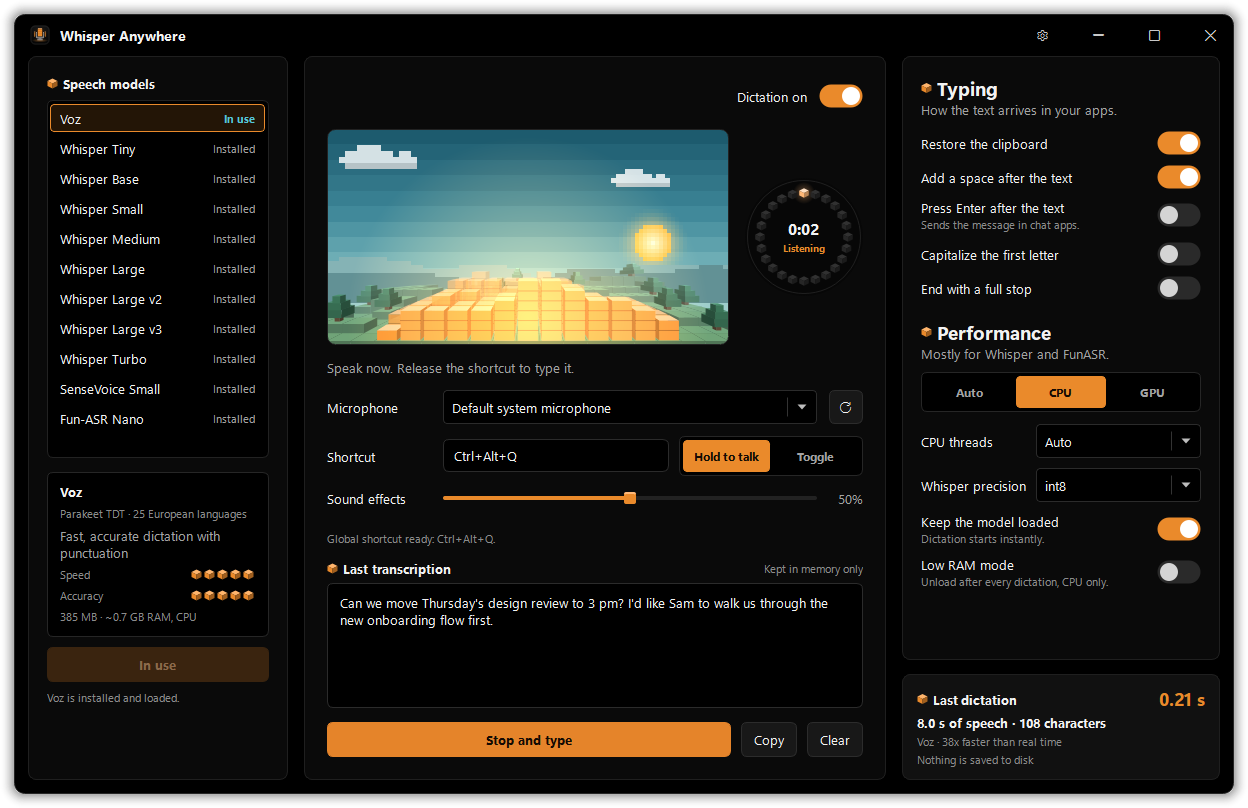
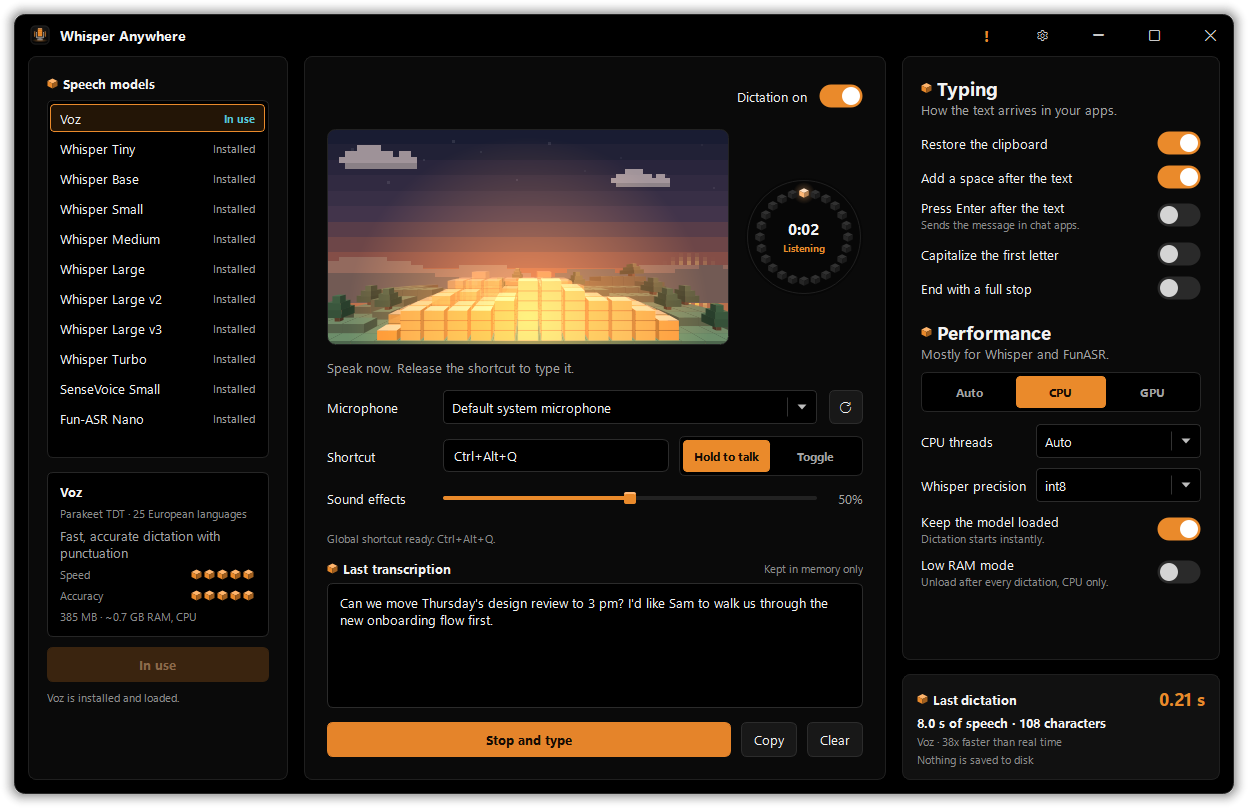
v0.2.2: a five-step tour, replayable from an orange !
- TutorialDialog: five pages (the shortcut, what the window shows while it
  listens, speech models, typing options and games, sounds/privacy/tray),
  voxel step dots, Back / Next / Done
- Shows once: after the first-run setup, or the first time the window opens
  on an existing install; never on a hidden start in the tray
  (tutorial_seen in settings)
- An orange ! in the title bar replays it (tooltip "Would you like to replay
  the tutorial?"), and so does How it works in Settings
- README: v0.2.2 update log, download link, refreshed screenshots

Changed region(s): [[0.25, 0.1547, 0.5938, 0.4332]]

diff --git a/src/ui/main_window.py b/src/ui/main_window.py
@@ -32,6 +32,7 @@ from PySide6.QtWidgets import (
     QScrollArea,
     QSizePolicy,
     QSlider,
+    QStackedWidget,
     QStyle,
     QStyledItemDelegate,
     QStyleOptionViewItem,
@@ -244,6 +245,95 @@ class _TitleBar(QWidget):
         super().mouseDoubleClickEvent(event)
 
 
+def _tutorial_pages(shortcut: str) -> list[tuple[str, str]]:
+    return [
+        (
+            "Talk, let go, it types",
+            f"Click into any text box: a chat, an email, a document or a game's chat. Hold {shortcut} and "
+            "speak. When you let go, your words are typed where the cursor is.\n\nRather press once to start "
+            "and again to stop? Pick Toggle next to the shortcut. Esc cancels a recording.",
+        ),
+        (
+            "Watch it listen",
+            "While you speak, the voxel columns rise with your voice and the wheel counts the seconds. The "
+            "cyan scanner means your words are being turned into text, usually in well under a second.\n\n"
+            "The tray icon gets an orange dot while it listens and a cyan dot while it works. The Dictation on "
+            "switch pauses the shortcut.",
+        ),
+        (
+            "Speech models",
+            "Voz is the recommended model: fast and accurate, with punctuation, for 25 European languages, and "
+            "it needs no GPU. It downloads once, about 385 MB. For other languages, pick a Whisper model in the "
+            "list on the left.\n\nIf a download cannot finish, the message under the list says why and links "
+            "to the files, so you can download them in your browser instead.",
+        ),
+        (
+            "Typing options and games",
+            "The switches on the right decide how the text arrives: keep your clipboard, add a space, press "
+            "Enter to send chat messages, capitalize, end with a full stop.\n\nIn full-screen games the words "
+            "are typed in for you; open the game's chat box before you speak. An app running as administrator "
+            "only accepts typing if Whisper Anywhere runs as administrator too.",
+        ),
+        (
+            "Sounds, privacy and the tray",
+            "Sound effects sets the volume of the start and stop sounds; 0 turns them off. Recordings stay in "
+            "memory and are never saved to disk.\n\nClosing the window keeps Whisper Anywhere in the tray, so "
+            "the shortcut keeps working. The gear opens Settings: Start with Windows and diagnostics.\n\n"
+            "This tour shows once. To see it again, click the orange ! at the top of the window.",
+        ),
+    ]
+
+
+class TutorialDialog(ShellDialog):
+    """A five-step tour; shown once after setup, replayed from the ! button or Settings."""
+
+    def __init__(self, parent: "MainWindow") -> None:
+        super().__init__(parent, "How Whisper Anywhere works", "Five quick steps.", width=500)
+        shortcut = str(parent.settings_manager.get("shortcut", "Ctrl+Alt+Q"))
+        self.pages = QStackedWidget()
+        for title, text in _tutorial_pages(shortcut):
+            page = QWidget()
+            layout = QVBoxLayout(page)
+            layout.setContentsMargins(0, 0, 0, 0)
+            layout.setSpacing(10)
+            layout.addWidget(CubeTitle(title, "columnTitle"))
+            layout.addWidget(label(text, "muted", wrap=True))
+            layout.addStretch(1)
+            self.pages.addWidget(page)
+        self.pages.setMinimumHeight(190)
+        self.body.addWidget(self.pages)
+
+        row = QHBoxLayout()
+        row.setSpacing(6)
+        self.dots: list[QLabel] = []
+        for _ in range(self.pages.count()):
+            dot = QLabel()
+            dot.setFixedSize(10, 10)
+            self.dots.append(dot)
+            row.addWidget(dot)
+        row.addStretch(1)
+        self.back_button = button("Back")
+        self.next_button = button("Next", "primary")
+        self.back_button.clicked.connect(lambda checked=False: self._go(-1))
+        self.next_button.clicked.connect(lambda checked=False: self._go(1))
+        row.addWidget(self.back_button)
+        row.addWidget(self.next_button)
+        self.body.addLayout(row)
+        self._go(0)
+
+    def _go(self, step: int) -> None:
+        index = self.pages.currentIndex() + step
+        if index >= self.pages.count():
+            self.accept()
+            return
+        index = max(0, index)
+        self.pages.setCurrentIndex(index)
+        for position, dot in enumerate(self.dots):  # voxel step dots: orange for this step
+            dot.setStyleSheet(f"background: {'#EA8A2B' if position == index else '#2C2C2C'}; border-radius: 2px;")
+        self.back_button.setEnabled(index > 0)
+        self.next_button.setText("Done" if index == self.pages.count() - 1 else "Next")
+
+
 class FirstRunSetupDialog(ShellDialog):
     def __init__(self, parent: "MainWindow") -> None:
         super().__init__(
@@ -345,8 +435,10 @@ class SettingsWindow(ShellDialog):
         self.run_setup_button = button("Run setup again")
         self.open_settings_folder_button = button("Open settings folder")
         self.open_model_folder_button = button("Open model folder")
+        self.tutorial_button = button("How it works")
         for index, widget in enumerate(
             (
+                self.tutorial_button,
                 self.check_updates_button,
                 self.run_setup_button,
                 self.copy_diagnostics_button,
@@ -452,6 +544,7 @@ class MainWindow(QMainWindow):
         self._model_progress_timer = QTimer(self)
         self._model_progress_timer.setInterval(1000)
         self._model_progress_timer.timeout.connect(self._tick_model_progress)
+        self._tutorial_pending = False
         self._warm_up_timer = QTimer(self)
         self._warm_up_timer.setSingleShot(True)
         self._warm_up_timer.setInterval(WARM_UP_DELAY_MS)
@@ -522,12 +615,24 @@ class MainWindow(QMainWindow):
         layout.addWidget(_logo(20))
         layout.addWidget(label("Whisper Anywhere", "windowTitle"))
         layout.addStretch(1)
+        self.help_button = button("!", "caption")
+        self.help_button.setToolTip("Would you like to replay the tutorial?")
+        self.help_button.setAccessibleName("Replay the tutorial")
+        self.help_button.setStyleSheet(
+            'font-family: "Segoe UI Variable Display", "Segoe UI"; font-size: 16px; font-weight: 700; color: #EA8A2B;'
+        )
         self.settings_button = button(GLYPHS["settings"], "caption")
         self.settings_button.setToolTip("Settings")
         self.minimize_button = button(GLYPHS["minimize"], "caption")
         self.maximize_button = button(GLYPHS["maximize"], "caption")
         self.close_button = button(GLYPHS["close"], "captionClose")
-        for widget in (self.settings_button, self.minimize_button, self.maximize_button, self.close_button):
+        for widget in (
+            self.help_button,
+            self.settings_button,
+            self.minimize_button,
+            self.maximize_button,
+            self.close_button,
+        ):
             widget.setCursor(Qt.CursorShape.ArrowCursor)
             widget.setFocusPolicy(Qt.FocusPolicy.NoFocus)
             layout.addWidget(widget)
@@ -825,6 +930,21 @@ class MainWindow(QMainWindow):
     def showEvent(self, event) -> None:
         super().showEvent(event)
         self.horizon.set_animated(True)
+        # Existing installs see the tour once, the first time the window is actually
+        # opened (never on a tray-only start, so it cannot pop up over a game).
+        if (
+            not self._tutorial_pending
+            and bool(self.settings_manager.get("first_run_setup_completed", False))
+            and not bool(self.settings_manager.get("tutorial_seen", False))
+        ):
+            self._tutorial_pending = True
+            QTimer.singleShot(700, self.show_tutorial)
+
+    def show_tutorial(self, force: bool = False) -> None:
+        if not force and bool(self.settings_manager.get("tutorial_seen", False)):
+            return
+        self.settings_manager.set("tutorial_seen", True)
+        TutorialDialog(self).exec()
 
     def hideEvent(self, event) -> None:
         self.horizon.set_animated(False)
@@ -833,6 +953,7 @@ class MainWindow(QMainWindow):
     # ----------------------------------------------------------------- signals
 
     def _connect_signals(self) -> None:
+        self.help_button.clicked.connect(lambda checked=False: self.show_tutorial(force=True))
         self.settings_button.clicked.connect(lambda checked=False: self.open_settings_window())
         self.minimize_button.clicked.connect(lambda checked=False: self.showMinimized())
         self.maximize_button.clicked.connect(lambda checked=False: self.toggle_maximized())
@@ -880,6 +1001,7 @@ class MainWindow(QMainWindow):
         settings.start_with_windows.switch.toggled.connect(lambda checked=False: self.save_startup_settings())
         settings.keep_in_tray.switch.toggled.connect(lambda checked=False: self.save_tray_setting())
         settings.debug_log.switch.toggled.connect(lambda checked=False: self.save_debug_log_setting())
+        settings.tutorial_button.clicked.connect(lambda checked=False: self.show_tutorial(force=True))
         settings.check_updates_button.clicked.connect(lambda checked=False: self.check_for_updates())
         settings.copy_diagnostics_button.clicked.connect(lambda checked=False: self.copy_diagnostics())
         settings.save_diagnostics_button.clicked.connect(lambda checked=False: self.save_diagnostics())
@@ -1694,6 +1816,7 @@ class MainWindow(QMainWindow):
             if not force:
                 self.settings_manager.set("first_run_setup_completed", True)
             self.set_status("Ready", "Setup skipped. Current settings are unchanged.")
+            self.show_tutorial()
             return
         shortcut = dialog.shortcut_input.text().strip() or "Ctrl+Alt+Q"
         try:
@@ -1722,6 +1845,7 @@ class MainWindow(QMainWindow):
         self.prepare_selected_model(auto=True)
         self._schedule_warm_up()
         self.set_status("Ready", f"Setup saved. {self._ready_detail()}")
+        self.show_tutorial()  # the model downloads in the background meanwhile
 
     # ------------------------------------------------------- updates, support
 

diff --git a/tests/test_tutorial.py b/tests/test_tutorial.py
@@ -1,0 +1,38 @@
+from __future__ import annotations
+
+from types import SimpleNamespace
+
+import ui.main_window as mw
+
+
+class FakeSettings(dict):
+    def get(self, key, default=None):
+        return super().get(key, default)
+
+    def set(self, key, value) -> None:
+        self[key] = value
+
+
+def test_tutorial_shows_once_and_replays_from_the_button(monkeypatch) -> None:
+    shown: list[object] = []
+
+    class FakeDialog:
+        def __init__(self, parent) -> None:
+            shown.append(parent)
+
+        def exec(self) -> int:
+            return 1
+
+    monkeypatch.setattr(mw, "TutorialDialog", FakeDialog)
+    window = SimpleNamespace(settings_manager=FakeSettings())
+
+    mw.MainWindow.show_tutorial(window)  # first time: shown
+    mw.MainWindow.show_tutorial(window)  # already seen: not again on its own
+    mw.MainWindow.show_tutorial(window, force=True)  # the ! button replays it
+
+    assert len(shown) == 2
+    assert window.settings_manager["tutorial_seen"] is True
+
+
+def test_the_first_step_names_the_users_own_shortcut() -> None:
+    assert "Hold M5" in mw._tutorial_pages("M5")[0][1]

diff --git a/src/core/app_version.py b/src/core/app_version.py
@@ -1,6 +1,6 @@
 from __future__ import annotations
 
-APP_VERSION = "0.2.1"
+APP_VERSION = "0.2.2"
 GITHUB_REPO = "aSimpleLife-Lab/whisper-anywhere"
 GITHUB_RELEASES_API = f"https://api.github.com/repos/{GITHUB_REPO}/releases/latest"
 GITHUB_RELEASES_URL = f"https://github.com/{GITHUB_REPO}/releases/latest"

diff --git a/src/core/settings_manager.py b/src/core/settings_manager.py
@@ -30,6 +30,7 @@ def default_model_path() -> str:
 DEFAULT_SETTINGS: dict[str, Any] = {
     "settings_schema_version": 2,
     "first_run_setup_completed": False,
+    "tutorial_seen": False,
     "selected_model": "voz",
     "microphone_device": "default",
     "microphone_name": "",

diff --git a/README.md b/README.md
@@ -19,10 +19,10 @@ This is not a web app and it does not use a cloud API. Recordings stay in memory
 
 ## Download
 
-**[Download WhisperAnywhere-Setup-0.2.1.exe](https://github.com/aSimpleLife-Lab/whisper-anywhere/releases/download/v0.2.1/WhisperAnywhere-Setup-0.2.1.exe)**: one installer, no administrator rights needed, Windows 10/11 64-bit.
+**[Download WhisperAnywhere-Setup-0.2.2.exe](https://github.com/aSimpleLife-Lab/whisper-anywhere/releases/download/v0.2.2/WhisperAnywhere-Setup-0.2.2.exe)**: one installer, no administrator rights needed, Windows 10/11 64-bit.
 
 1. Run the installer. The app is not code-signed yet, so Windows SmartScreen may say it "protected your PC": click **More info**, then **Run anyway**.
-2. Start Whisper Anywhere from the Start menu.
+2. Start Whisper Anywhere from the Start menu. A five-step tour shows how it works; the orange **!** in the title bar replays it.
 3. Click into any app, hold `Ctrl + Alt + Q` (or the mouse button you pick), speak, and let go.
 
 The app downloads speech models on first use (Voz is about 385 MB), so the first setup takes a little while.
@@ -32,7 +32,15 @@ The installer build includes Voz and every Whisper model. SenseVoice and Fun-ASR
 ## Developer Update Log
 
 <details>
-<summary><strong>Current build - v0.2.1</strong> - model downloads that work on more networks, and say why when they cannot</summary>
+<summary><strong>Current build - v0.2.2</strong> - a tour of the app</summary>
+
+- **New tour**: five short steps explain the shortcut, what the window shows while it listens, the speech models, the typing options (including games) and the sounds, privacy and tray. It shows once, after setup or the first time the window opens after updating, never on a hidden start in the tray
+- An orange **!** in the title bar replays the tour (hover it: "Would you like to replay the tutorial?"), and so does **How it works** in Settings
+
+</details>
+
+<details>
+<summary><strong>v0.2.1</strong> - model downloads that work on more networks, and say why when they cannot</summary>
 
 - Fixed: on networks that block or silently drop traffic to Hugging Face (firewalls, antivirus, VPNs, DNS filters), the Voz download sat at "0 of 384 MB" for minutes and then only said to check the internet connection
 - Voz now downloads with its own resumable downloader: a stalled connection gives up after 30 seconds (three tries), an interrupted download resumes where it stopped, and the progress line says "Connecting" until data arrives
@@ -104,6 +112,7 @@ The installer build includes Voz and every Whisper model. SenseVoice and Fun-ASR
 - Global hold-to-talk shortcut: `Ctrl + Alt + Q` or a mouse button (M3, M4, M5, or M1/M2 with a modifier), with optional toggle mode and a pause switch
 - Click-to-record shortcut selection
 - First-run setup for shortcut, model, microphone, and CPU/GPU choice, plus **Run setup again**
+- A five-step tour after setup, replayed from the orange **!** in the title bar or **How it works** in Settings
 - Microphone selection
 - Local settings file at `%APPDATA%\Whisper Anywhere\settings.json`
 - Speech models: **Voz** (default), Whisper Tiny, Base, Small, Medium, Large, Large v2, Large v3, Turbo, plus optional FunASR SenseVoice Small and Fun-ASR Nano
